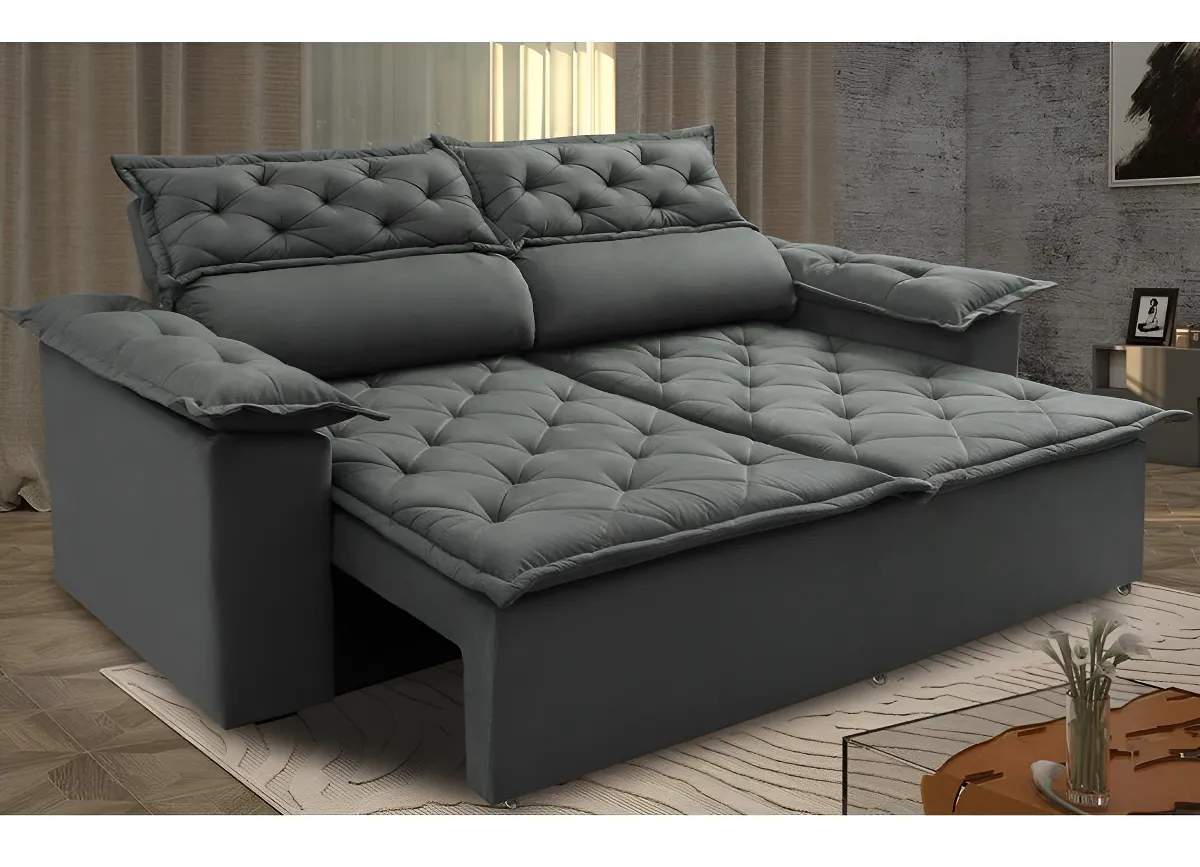
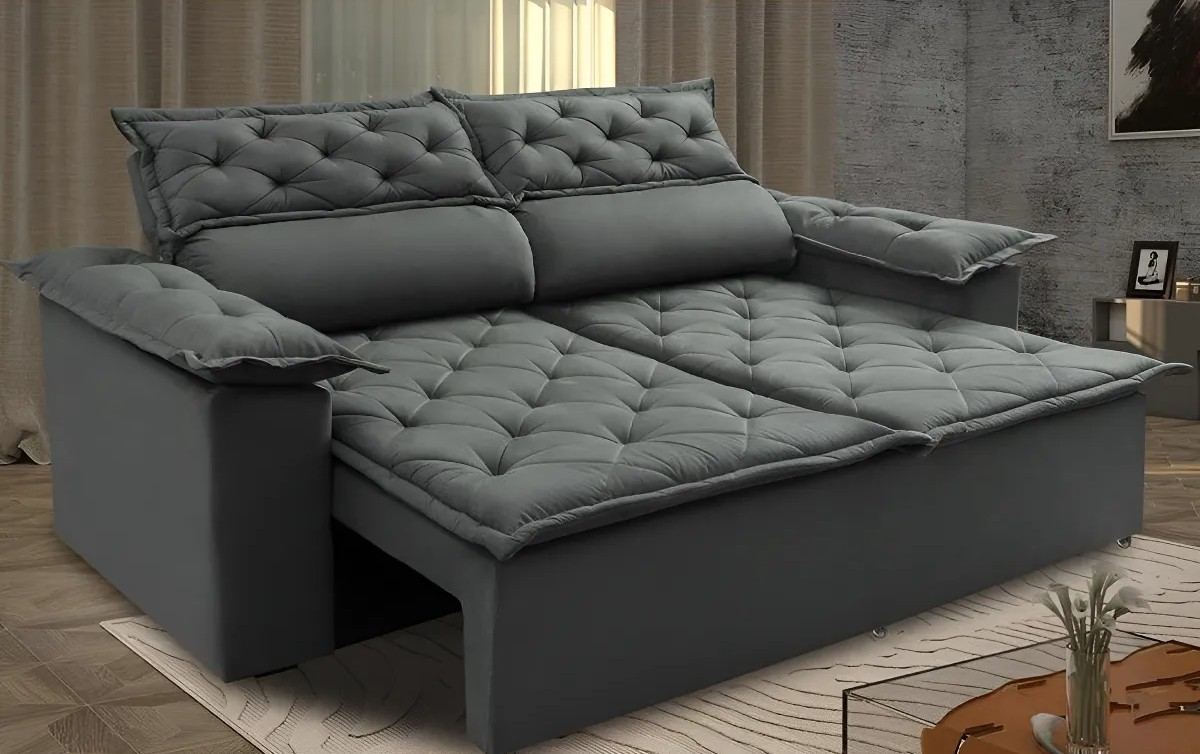
Add files via upload

diff --git a/script.js b/script.js
@@ -29,17 +29,17 @@ const gifts = [
   { id: 16, icon: "🏠", title: "Tapete para sala", description: "Casa", price: "Sugestão" },
   { id: 17, icon: "🏠", title: "Tapete para quarto", description: "Casa", price: "Sugestão" },
 
-  // 💎 PRESENTES ESPECIAIS (Com fotos locais e links das lojas)
+  // 💎 PRESENTES ESPECIAIS (Com imagens locais ajustadas sem distorção)
   { 
     id: 18, 
-    icon: '<img src="cadeiras.jpg" alt="Jogo de Cadeiras" style="width: 100%; height: 100px; object-fit: cover; border-radius: 8px;">', 
+    icon: '<div style="width: 100%; height: 110px; background: #f4f1ea; display: flex; align-items: center; justify-content: center; border-radius: 8px; overflow: hidden;"><img src="cadeiras.jpg" alt="Jogo de Cadeiras" style="max-width: 100%; max-height: 100%; object-fit: contain;"></div>', 
     title: "Jogo de 6 Cadeiras", 
     description: 'Presentes Especiais<br><a href="https://br.shp.ee/2U1wV6Kx" target="_blank" style="color: #2c5e3b; text-decoration: underline; font-weight: bold;">Ver produto na Shopee</a><br><small style="color: #666;">*Aceitamos também cota parcial para este item.</small>', 
     price: "Sugestão" 
   },
   { 
     id: 19, 
-    icon: '<img src="sofa.jpg" alt="Sofá" style="width: 100%; height: 100px; object-fit: cover; border-radius: 8px;">', 
+    icon: '<div style="width: 100%; height: 110px; background: #f4f1ea; display: flex; align-items: center; justify-content: center; border-radius: 8px; overflow: hidden;"><img src="sofa.jpg" alt="Sofá" style="max-width: 100%; max-height: 100%; object-fit: contain;"></div>', 
     title: "Sofá", 
     description: 'Presentes Especiais<br><a href="https://www.mercadolivre.com.br/sofa-retratil-e-reclinavel-cama-inbox-compact-150m-tecido-suede-velusoft-cinza/p/MLB23999223?pdp_filters=item_id:MLB4434367220&matt_tool=73099662&matt_internal_campaign_id=349107489&matt_word=&matt_source=google&matt_campaign_id=23825084879&matt_ad_group_id=199805781298&matt_match_type=&matt_network=g&matt_device=c&matt_creative=818786804086&matt_keyword=&matt_ad_position=&matt_ad_type=pla&matt_merchant_id=5752257395&matt_product_id=MLB4434367220&matt_product_partition_id=2463771778011&matt_target_id=aud-2495935283228:pla-2463771778011&cq_src=google_ads&cq_cmp=23825084879&cq_net=g&cq_plt=gp&cq_med=pla&gad_source=1&gad_campaignid=23825084879&gclid=CjwKCAjwyuDTBhB-EiwANCQhLLKGeXldHl3X_BC3pIb1y5NDO4YuHpDk1p8VoZlo0edxgO5pURymUxoC-TgQAvD_BwE" target="_blank" style="color: #2c5e3b; text-decoration: underline; font-weight: bold;">Ver produto no Mercado Livre</a><br><small style="color: #666;">*Aceitamos também cota parcial para este item.</small>', 
     price: "Sugestão" 
